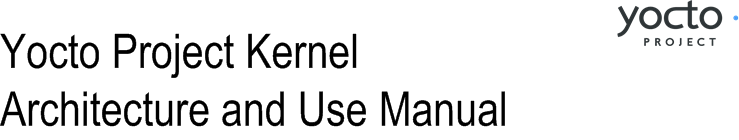
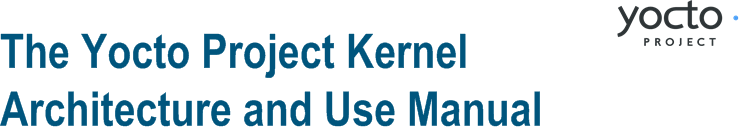
documentation/kernel-manual:  Kernel manual Style changes
Modifications to the figure image (figures/kernel-title.png),
the heading styles (style.css), and the numbering system with
TOC display (yocto-project-kernel-manual-customization.xsl).

I updated the title image to display the manual title using
color #00557D, which coordinates with the Yocto Project website
color scheme.  I also updated the style sheet to use this same
color for the section headings.  This helps to set them off better
from the text.  Finally, I flipped the switch back on for this
manual to create chapter-specific table of contents sections
prior to each chapter and to include a all-inclusive TOC at the
beginning of the book.

(From OE-core rev: 2f24addbd02039fb9b6489c90c5d1c687c0d0698)

Changed region(s): [[0.0, 0.6286, 0.747, 0.9143], [0.0, 0.2286, 0.6536, 0.5714]]

diff --git a/documentation/kernel-manual/style.css b/documentation/kernel-manual/style.css
@@ -56,7 +56,7 @@ body {
 
 h1,h2,h3,h4,h5,h6,h7 {
   font-family: Arial, Sans;
-  color:#999999;
+  color: #00557D;
   clear: both;
 }
 
@@ -79,9 +79,8 @@ h2.subtitle {
 h2 {
   margin: 2em 0em 0.66em 0em;
   padding: 0.5em 0em 0em 0em;
-  font-size: 2em;
+  font-size: 1.5em;
   font-weight: bold;
-  color: black;
 }
 
 h3.subtitle {
@@ -94,29 +93,29 @@ h3.subtitle {
 h3 {
   margin: 1em 0em 0.5em 0em;
   padding: 1em 0em 0em 0em;
-  font-size: 150%;
+  font-size: 140%;
   font-weight: bold;
-  color: black;
-  border-bottom: 2px solid black;
 }
 
 h4 {
   margin: 1em 0em 0.5em 0em;
   padding: 1em 0em 0em 0em;
-  font-size: 130%;
-  border-bottom: 1px solid black;
+  font-size: 120%;
+  font-weight: bold;
 }
 
 h5 {
   margin: 1em 0em 0.5em 0em;
   padding: 1em 0em 0em 0em;
-  font-size: 120%;
+  font-size: 110%;
+  font-weight: bold;
 }
 
 h6 {
   margin: 1em 0em 0em 0em;
   padding: 1em 0em 0em 0em;
-  font-size: 100%;
+  font-size: 80%;
+  font-weight: bold;
 }
 
 .authorgroup {
@@ -124,12 +123,12 @@ h6 {
   background-repeat: no-repeat;
   padding-top: 256px;
   background-image: url("figures/kernel-title.png");
-  background-position: top;
+  background-position: left top;
   margin-top: -256px;
   padding-right: 50px;
-  margin-left: 50px;
+  margin-left: 0px;
   text-align: right;
-  width: 700px;
+  width: 740px;
 }
 
 h3.author {
@@ -137,6 +136,7 @@ h3.author {
   padding: 0em 0em 0em 0em;
   font-weight: normal;
   font-size: 100%;
+  color: #333;
   clear: both;
 }
 
@@ -159,6 +159,7 @@ h3.author {
 .list-of-examples,
 .list-of-figures {
   padding: 1.33em 0em 2.5em 0em;
+  color: #00557D;
 }
 
 .toc p,
@@ -246,7 +247,6 @@ div.legalnotice p.legalnotice-title {
 p {
   line-height: 1.5em;
   margin-top: 0em;
-  color: black; font-size: 100%;
   
 }
 
@@ -946,7 +946,7 @@ table {
 
 .tip,
 .note {
-   background: #91ae35;
+   background: #666666;
    color: #fff;   
    padding: 20px;
    margin: 20px;
